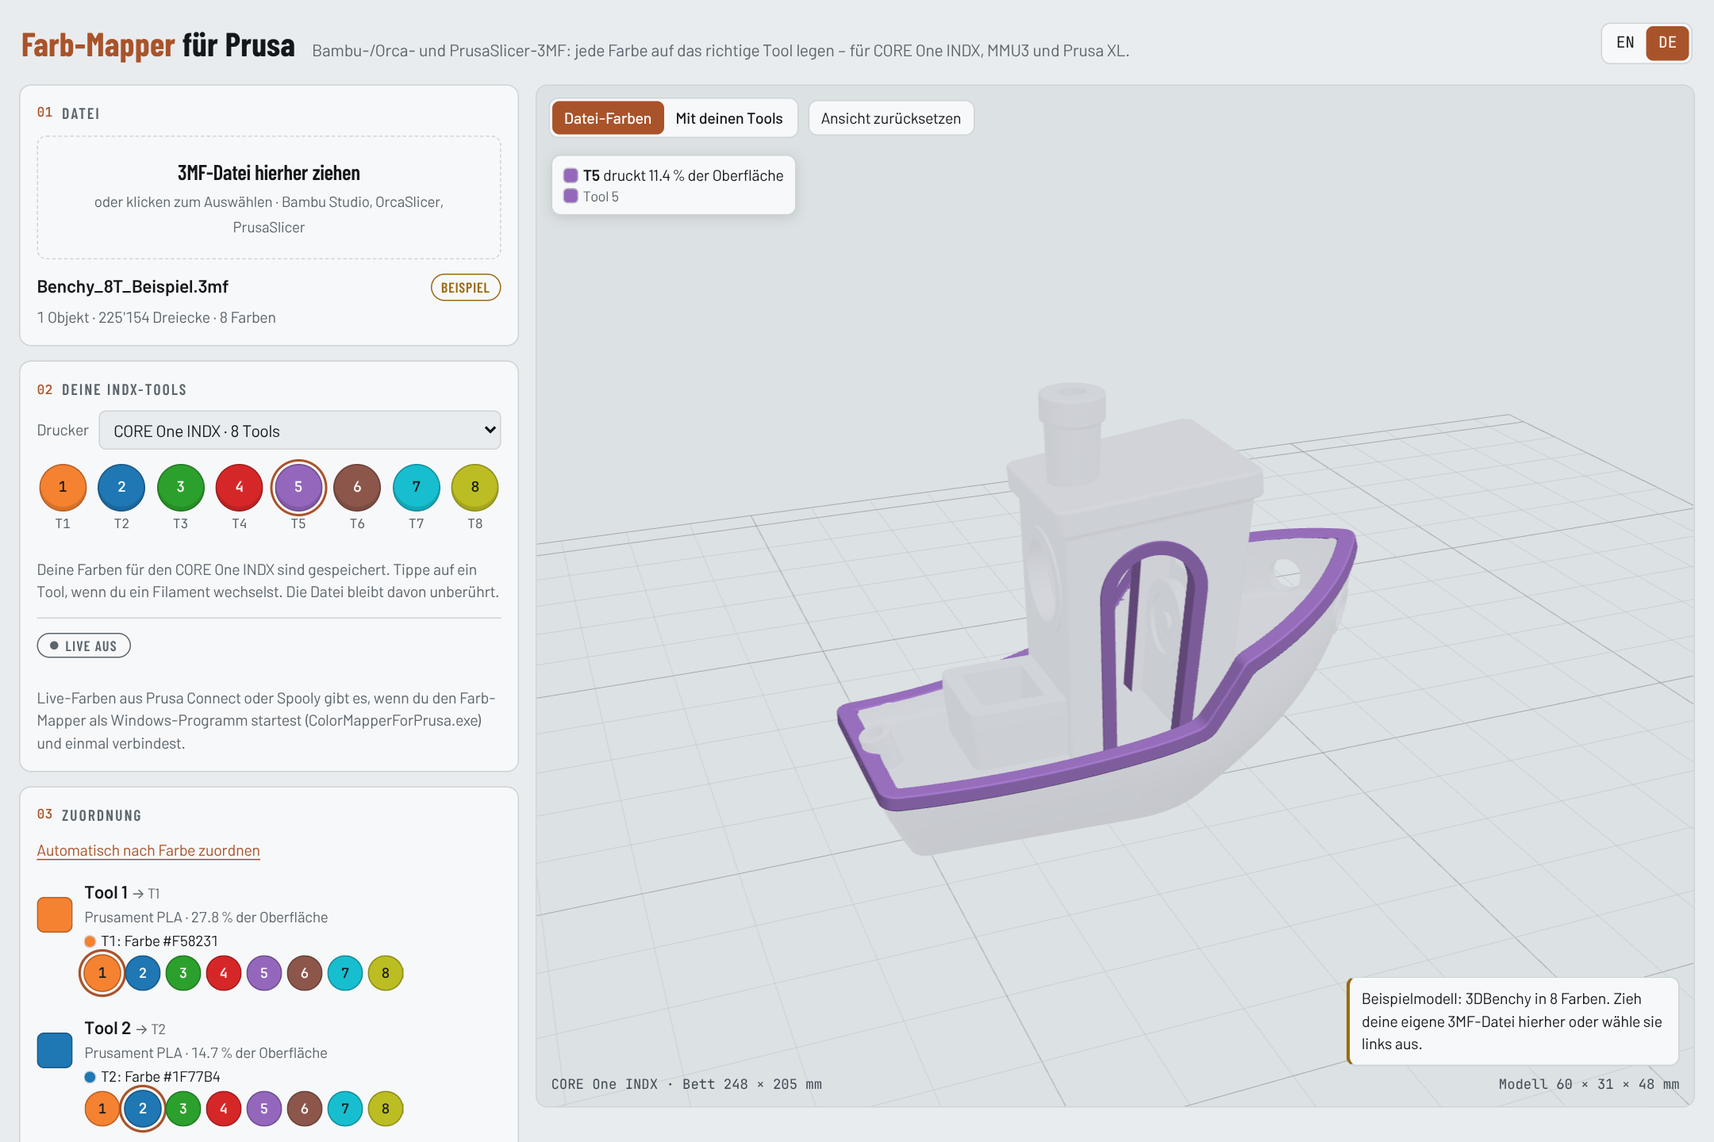
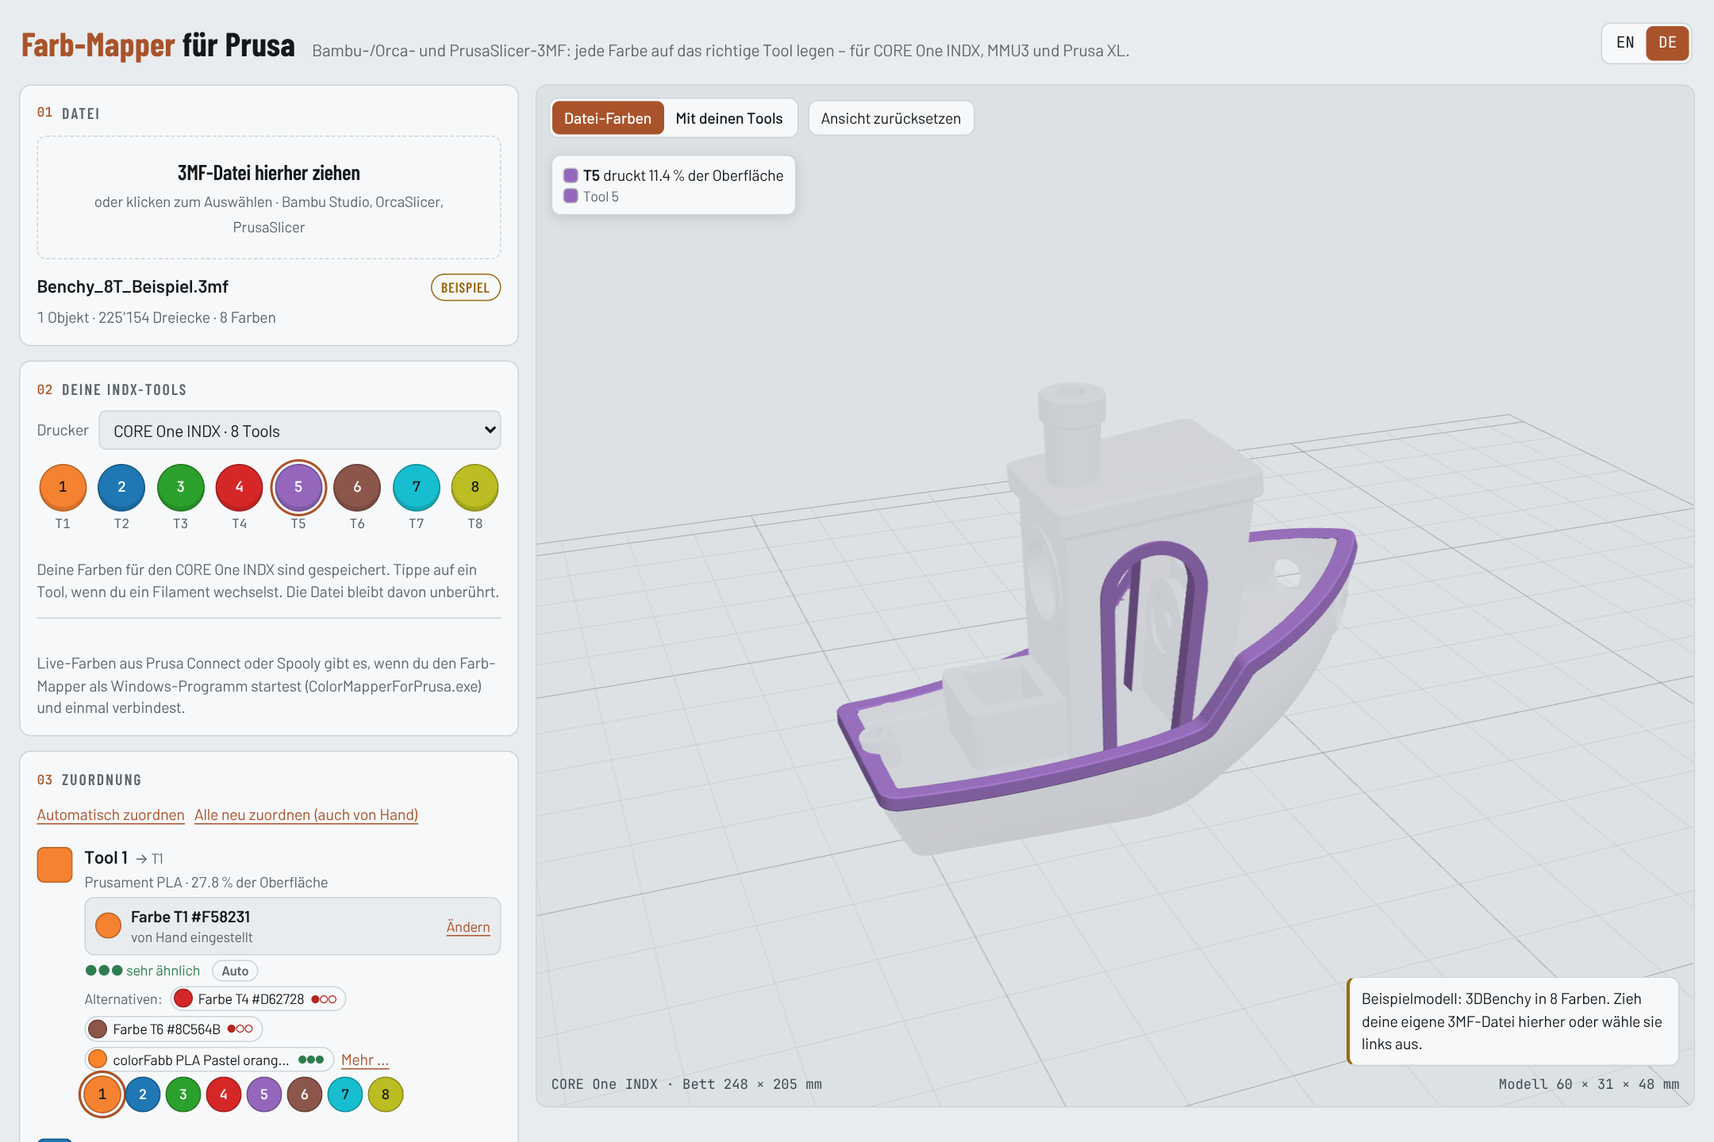
v1.4.0: documentation, screenshots and version
Claude-Session: https://claude.ai/code/session_01XiUPJFWm3fwv1rHjD5Hjyr

Changed region(s): [[0.0, 0.5625, 0.2792, 1.0]]

diff --git a/desktop/main.go b/desktop/main.go
@@ -27,7 +27,7 @@ import (
 	"time"
 )
 
-var version = "1.3.0" // beim Release-Build per -ldflags "-X main.version=…" gesetzt
+var version = "1.4.0" // beim Release-Build per -ldflags "-X main.version=…" gesetzt
 
 //go:embed web/color-mapper.html
 var pageHTML []byte

diff --git a/README.md b/README.md
@@ -11,7 +11,7 @@ You found a painted model for Bambu Studio, OrcaSlicer or PrusaSlicer, but its c
 
 <picture>
   <source media="(prefers-color-scheme: dark)" srcset="docs/screenshot-dark.png">
-  <img alt="Color Mapper for Prusa with the 8-color 3DBenchy sample – hovering tool T5 shows only the areas it prints" src="docs/screenshot.png">
+  <img alt="Color Mapper for Prusa with the 8-color 3DBenchy sample – one row per file color with its filament and tool; hovering tool T5 shows only the areas it prints" src="docs/screenshot.png">
 </picture>
 
 ## Features
@@ -19,28 +19,25 @@ You found a painted model for Bambu Studio, OrcaSlicer or PrusaSlicer, but its c
 **Everywhere (web version and Windows program)**
 
 - Opens 3MF projects from **Bambu Studio, OrcaSlicer and PrusaSlicer** (painted models and per-object colors)
-- 3D preview with the file colors or with your loaded filaments; hover a color or a tool to see exactly which areas it prints
-- **One row per file color: file color → filament → tool.** Automatic mapping by perceived color difference (CIEDE2000) and color family – a dark green goes to a green, not to black; a brown to brown, not to red
-- Each row shows how close the match is (very similar / similar / far off), whether it was set automatically or by hand, and 2–3 alternatives
-- Change a row by hand – tool or filament – and **only that row changes**; “Map automatically” keeps your manual rows, “Remap all” starts over
-- Choose a filament from what is loaded, from your Spooly stock, from the **OpenPrintTag** catalog or as your own color (color picker or hex code)
+- 3D preview with the file colors or with your filaments; hover a color or a tool to see exactly which areas it prints
+- **One row per file color: file color → filament → tool.** Each row shows the chosen filament (color, name, brand, source), how close it is (very similar / similar / far off) and whether it was set automatically or by hand
+- **Automatic mapping by perceived color difference** (CIEDE2000) and color family – a dark green goes to a green, not to black; a brown to brown, not to red
+- **Change one row, only that row changes.** “Map automatically” keeps the rows you set by hand, “Remap all” starts over
+- 2–3 **alternatives** per row, and a picker with everything you can choose from: loaded filaments, your Spooly stock, the **[OpenPrintTag](https://openprinttag.org)** catalog or your own color (color picker or hex code). Search by words in any order – `esun white` finds “eSun ePLA Cold White”
 - More colors than tools: similar colors share a tool, and the row says so
+- **Load list:** which spool goes into which tool before printing – on the page, to copy, or saved as a text file next to the 3MF
 - Your tool colors are remembered per printer in your browser
 - English and German, switchable at the top right
-- Everything runs locally: your 3MF files are never uploaded anywhere (only the public OpenPrintTag color list is downloaded, once a day at most)
+- Everything runs locally: your 3MF files are never uploaded anywhere (only the public OpenPrintTag color list is downloaded, at most once a day)
 
 **Windows program (optional)**
 
-- **Live tool colors from Prusa Connect** (unofficial) – the filament loaded in each tool or MMU slot, updated every 30 seconds
-- **Or live from [Spooly](https://spooly.eu)** (official API), with even more:
-  - remaining weight per tool and a warning when a spool is running low
-  - for every color of your file, **the best matching spool from your whole stock** – loaded or not – planned onto a tool
-  - choose a spool for any tool yourself from your stock, with storage location
-  - optional: enter the planned spools in Spooly with one click
-- Prusa Connect says what is loaded; Spooly fills in spool number, remaining weight and storage location (and the color when Connect knows only the material). Without Connect, Spooly provides the loaded spools; without both, you set the colors by hand. If Spooly is out of date for a tool, the program says so
-- Empty tools are shown as empty; a list under **Mapping** says which spool to load into which tool
+- **Live from Prusa Connect** (unofficial): what is loaded in each tool or MMU slot
+- **Live from [Spooly](https://spooly.eu)** (official API): spool number, remaining weight, storage location – and your whole stock for suggestions
+- Use **both at once**: Prusa Connect says what is loaded, Spooly adds the details. Without Connect, Spooly provides the loaded spools. If Spooly is out of date for a tool, the program says so
+- Optional: enter the spools to load in Spooly with one click
 - **Details** lists printer, update time and every tool with spool, material, remaining weight and storage location
-- A note when a print would mix materials (for example PLA and ASA)
+- Warnings for spools that are running low and for prints that mix materials (for example PLA and ASA)
 
 ## Supported printers
 
@@ -54,14 +51,15 @@ Tested on a real CORE One INDX. The other printers use the same file format and 
 
 ## Web version or Windows program?
 
-Both are the same Color Mapper. The Windows program adds the live tool colors from Prusa Connect or Spooly.
+Both are the same Color Mapper. The Windows program adds the live data from Prusa Connect and Spooly.
 
 | | Web version | Windows program |
 |---|---|---|
 | Installation | none | download `ColorMapperForPrusa.exe` and start it |
 | Works on | any computer or tablet with a current browser (Windows, macOS, Linux) | Windows |
-| Open, map and save 3MF | yes | yes |
-| Tool colors | set by hand once per printer, remembered by your browser | automatically from Prusa Connect or Spooly |
+| Open, map and save 3MF, load list | yes | yes |
+| OpenPrintTag catalog, own colors | yes | yes |
+| What is loaded in your printer | set by hand once per printer, remembered by your browser | automatically from Prusa Connect and/or Spooly |
 | Spools from your Spooly stock | – | yes |
 
 ## Web version
@@ -71,9 +69,9 @@ Both are the same Color Mapper. The Windows program adds the live tool colors fr
 
 1. Choose your printer under **Printer**.
 2. Set the color of each tool or slot: tap it and pick the color of the filament that is loaded. You do this once; the browser remembers it.
-3. Drag your 3MF file onto the page.
-4. Check the mapping – every file color gets a tool. **Map automatically by color** does it for you; hover a row to see where the color is used.
-5. Click **Save for PrusaSlicer**.
+3. Drag your 3MF file onto the page. Every file color gets a filament and a tool automatically.
+4. Check the rows under **Mapping** (see [The mapping](#the-mapping)) and change what you want.
+5. Click **Save for PrusaSlicer**. With **Also save the load list as a text file** ticked (default), you also get `…_load-list.txt`.
 
 ### Opening the result in PrusaSlicer
 
@@ -82,29 +80,72 @@ Both are the same Color Mapper. The Windows program adds the live tool colors fr
 3. If PrusaSlicer asks whether to open the file as a project or import the geometry only, choose **Import geometry only** so your printer profile stays.
 4. Check the painting with the **Multimaterial painting** tool (key N) before printing.
 
+## The mapping
+
+Every color of your file gets one row:
+
+- **File color** on the left, with its share of the surface.
+- **Filament** – the button shows color, name, brand, remaining weight and where it comes from (*loaded*, *Spooly stock*, *OpenPrintTag*, *own color*). Click it to choose another one.
+- **Tool** – the round buttons below. Click one to print this color with another tool.
+- **Quality:** ●●● very similar, ●●○ similar, ●○○ far off – based on the perceived color difference.
+- **Auto** or **✎ manual**, and **back to auto** for a single row.
+- **Notes**, for example *load into T6*, *shares T4 with Tool 7*, *PETG instead of PLA*.
+- **Alternatives:** the next best filaments – loaded, from your stock, and one from the OpenPrintTag catalog.
+
+**How the automatic mapping decides**
+
+- Color first: the perceived difference (CIEDE2000, lightness counts half) plus a penalty for a different color family, so brown stays brown and grey doesn't land on a colored tool.
+- Material: filaments in the file's material (PLA for PLA) are preferred, as long as one of them is at least *similar*.
+- A loaded spool wins over one from your stock if it matches practically as well – you don't swap spools for nothing. Almost empty spools come last.
+- Spools from your stock go first into a tool with practically the same color (for example black PLA into the tool with black ASA), then into empty slots, then into the tool the print doesn't need whose current color is most similar. Tools the print needs are never replaced.
+- More colors than tools: the color shares the most similar tool, and the row says so.
+- The OpenPrintTag catalog is only shown as an alternative – it is never chosen automatically, because those spools are not in your printer or stock.
+
+**Changing things by hand**
+
+- Click a tool or choose a filament: **only this row changes**. If the filament is not in the printer yet, it goes to a free tool (same color, then empty, then most similar).
+- **Map automatically** maps all automatic rows again and keeps your manual rows. **Remap all (incl. manual)** starts over.
+- The picker has four tabs: **Loaded**, **Spooly stock** (Windows program with Spooly), **OpenPrintTag** and **Own color** (color picker or hex code `#RRGGBB`). The search matches words in any order and ignores case, accents and hyphens – `creality blue` finds “Creality PLA Blue”, `#82` finds spool number 82. **only PLA** limits the list to the file's material.
+
+**Load list**
+
+Below the rows, **Load before printing** lists every tool that needs a different spool, with storage location and what is in it now. **Save as text file** and **Copy** take the whole list with you; when you save for PrusaSlicer, the list is saved too (`…_load-list.txt`, can be switched off under **Save**). The text file also lists what stays loaded, unused tools and notes. Your browser may ask once whether the page may download several files – allow it.
+
 ## Windows program
 
 1. Download `ColorMapperForPrusa.exe` from the [latest release](../../releases/latest) and start it. A black window opens and the Color Mapper opens in your browser.
-2. Choose the source of the tool colors at the top of the live box: **Prusa Connect** or **Spooly** (see below).
+2. Connect **Prusa Connect**, **Spooly** or both in the box below the tools (see below).
 3. Keep the black window open while you use the Color Mapper. Closing it stops the program.
 
 **“Windows protected your PC”:** the program is not code-signed, so Windows SmartScreen warns about it on first start. Click **More info → Run anyway**. If your browser or company blocks downloading `.exe` files, you can't use the Windows program on that computer – the web version works without it.
 
 *Optional – check the download:* the files in the releases are built by GitHub directly from this source code. Compare the SHA-256 (`Get-FileHash ColorMapperForPrusa.exe` in PowerShell) with `SHA256SUMS.txt` from the release, or, with the [GitHub CLI](https://cli.github.com/), run `gh attestation verify ColorMapperForPrusa.exe --repo DomiTech3D/color-mapper-for-prusa`.
 
+### Where “loaded” comes from
+
+The line **Loaded spools** below the tools shows which source is used:
+
+| Connected | What is loaded comes from |
+|---|---|
+| Prusa Connect and Spooly | Prusa Connect. Spooly adds spool number, remaining weight and storage location when its spool in that slot has the same color. If Prusa Connect knows only the material, the color comes from Spooly. If the two disagree, a note says *Spooly is not up to date for T3* – Prusa Connect counts. |
+| only Spooly (or Prusa Connect fails) | Spooly |
+| neither | the colors you set by hand |
+
+The tools show what is loaded. While a live source is used, you change the filament on the printer or in Spooly, not on the page; a ↻ marks tools whose spool should be swapped for this file.
+
 ### Live colors from Prusa Connect
 
-1. In the live box, choose **Prusa Connect** and click **Connect to Prusa Connect**.
+1. Click **Connect to Prusa Connect**.
 2. Sign in on the Prusa page that opens. The program never sees your password.
 3. If you have several printers, choose yours under **Printer**. The matching printer profile is chosen automatically.
 
-The colors update every 30 seconds. When you load a new spool, the color changes by itself. A tool without filament in Prusa Connect is shown as empty. You can still give a tool your own color by tapping it; **↺ Connect** takes the color from Prusa Connect again.
+The data updates every 30 seconds. When you load a new spool, the tool changes by itself. A tool without filament in Prusa Connect is shown as empty.
 
 ### Live colors and stock from Spooly
 
 [Spooly](https://spooly.eu) is a filament manager. Through its official API the Color Mapper reads which spool is in which slot and what you have in stock.
 
-![The Windows program with Spooly: live tool colors, a spool from stock planned for T2, and the Details panel](docs/screenshot-spooly.png)
+![The Windows program with Spooly: every file color with its spool, quality, alternatives and tool](docs/screenshot-spooly.png)
 
 **You need**
 
@@ -114,26 +155,20 @@ The colors update every 30 seconds. When you load a new spool, the color changes
 
 **Set up**
 
-1. In Spooly, create a **personal API key** (it starts with `spk_`). For live colors, reading is enough. Only the optional *entering of spools in Spooly* (see below) needs a key that may write.
-2. Start `ColorMapperForPrusa.exe` and switch the live box from **Prusa Connect** to **Spooly**.
-3. Paste the key and click **Connect to Spooly**. The key is checked right away.
+1. In Spooly, create a **personal API key** (it starts with `spk_`). Reading is enough. Only the optional *entering of spools in Spooly* (see below) needs a key that may write.
+2. Start `ColorMapperForPrusa.exe`, paste the key under **Spooly** and click **Connect to Spooly**. The key is checked right away.
+3. If Spooly has several printers, choose yours under **Printer** in the Spooly box. With Prusa Connect connected, the printer with the same name is chosen automatically.
 4. Check under **Details** that every tool shows the right spool.
 
 **How it works**
 
-- **Tool colors:** come from the spools in your Spooly slots, updated about every minute. The printer profile is chosen from the printer model (for example `COREONE_INDX8T`). Under each tool you see material and remaining weight; spools that are running low are marked.
-- **Best spool for your file:** when you open a file, every file color gets the spool from Spooly that matches it best – loaded or in stock:
-  - A loaded spool wins if it matches practically as well, so you don't swap spools for nothing.
-  - Only spools of the file's material are used (PLA for PLA), unless none of them fits.
-  - Spools from your stock go first into a tool that has practically the same color (for example black PLA into the tool with black ASA), then into empty slots, then into a tool the print doesn't need whose current color is most similar – no black into a tool that printed white. Tools the print needs are never replaced.
-  - Spools that are almost empty come last.
-  - A message says what was planned and which spool it would replace. **Discard** undoes a plan, **Map automatically by color** plans again. Nothing happens for the sample model shown at start.
-- **Choose a spool yourself:** the spool button (◎) under each tool opens your stock – searchable, with remaining weight, storage location and where a spool is loaded right now. Spools that match your file are on top.
-- **Plans are only plans:** Spooly is not changed. Planned spools are listed below the tools with their storage location, so you know what to load where. As soon as Spooly reports the planned spool in that slot, the plan is done.
+- **Loaded spools:** come from your Spooly slots (or from Prusa Connect, see above), updated about every minute. The printer profile is chosen from the printer model (for example `COREONE_INDX8T`). Under each tool you see material and remaining weight; spools that are running low are marked.
+- **Your stock:** with **Use Spooly stock for suggestions** ticked (default), the automatic mapping also picks spools that are not loaded, by the rules in [The mapping](#the-mapping). Without it, only loaded spools are used; the stock stays available in the picker.
+- **Nothing changes in Spooly by itself.** Spools from your stock appear in the load list with their storage location; once Spooly (or Prusa Connect) reports them in the tool, they count as loaded.
 
 **Optional: enter spools in Spooly**
 
-Tick **Allow entering spools in Spooly** (off by default). Then each planned spool gets an **Enter in Spooly** button, and the spool window can empty a slot in Spooly. Nothing is changed in Spooly without one of these clicks.
+Tick **Allow entering spools in Spooly** (off by default). Then each spool in the load list gets an **Enter in Spooly** button. Nothing is changed in Spooly without this click.
 
 - This needs the **slot autopilot** in Spooly and a key that may write.
 - If the printer reports a different color for the slot, the Color Mapper asks first (**Assign anyway**).
@@ -156,14 +191,20 @@ Tick **Allow entering spools in Spooly** (off by default). Then each planned spo
 | Spooly's daily limit is used up | Colors update again the next day. |
 | Spooly lists T2 but without a slot ID | Turn on the slot autopilot for this printer in Spooly. |
 | Spooly does not allow this key to change slots | Create a key with write access, or leave entering off. |
+| Spooly is not up to date for T3 | Prusa Connect reports a different spool in that tool. Update the slot in Spooly – or ignore it, Prusa Connect counts. |
 
-The **Program log** at the bottom of the live box shows which slots Spooly offers for each printer.
+The **Program log** at the bottom of the box shows which slots Spooly offers for each printer.
+
+### OpenPrintTag catalog
+
+[OpenPrintTag](https://openprinttag.org) is an open database of filaments with their colors. The Color Mapper uses it to show spools you could buy or use that match a file color – as alternatives and in the **OpenPrintTag** tab of the picker. The list is loaded live (the Windows program fetches it itself and keeps a copy for 6 hours; the web version loads it from database.openprinttag.org and keeps a copy for a day). Without internet, the last copy is used. The data is published under the MIT license.
 
 ### What the Windows program does and stores
 
 - It listens only on `127.0.0.1:8765` (your own computer) and refuses requests from other sites.
 - Prusa Connect: you sign in on Prusa's own page; the sign-in is stored encrypted (Windows DPAPI) in `%APPDATA%\ColorMapperForPrusa`. It only reads your printers and the filament in each tool.
-- Spooly: the API key is stored the same way. The program reads printers, slots and spools; it only writes to Spooly when you click **Enter in Spooly** or empty a slot.
+- Spooly: the API key is stored the same way. The program reads printers, slots and spools; it only writes to Spooly when you click **Enter in Spooly**.
+- OpenPrintTag: the public filament list is downloaded and cached in the same folder (`openprinttag.json`).
 - **Disconnect** deletes the stored sign-in or key. Tokens and keys are never written to the log.
 
 ## About the Prusa Connect connection (unofficial)
@@ -190,6 +231,15 @@ No. A 3MF file contains no filament usage; only the slicer calculates it (it dep
 **Why do some areas turn grey while hovering?**
 On purpose: only the areas printed by the color or tool under the mouse pointer stay in color.
 
+**Why does a row say “shares T4 with …”?**
+The file has more colors than you have tools (or than tools that are free). The color then prints with the most similar tool. Choose another tool or filament for that row if you prefer.
+
+**Why is a catalog filament never chosen automatically?**
+Spools from the OpenPrintTag catalog are not in your printer or your stock. They are suggestions; choose one by hand if you want to buy or load it, and load it as the load list says.
+
+**Can the load list be put into the 3MF?**
+PrusaSlicer would not show it: with *Import geometry only* it drops everything except the geometry and the painting. That's why it is a separate text file.
+
 ## Feedback
 
 This is a hobby project and my first one on GitHub – feedback is very welcome. Found a bug, a 3MF that doesn't work, or have an idea? Please [open an issue](../../issues). For problems with a specific file, a short description of the printer, the slicer it came from and what went wrong helps a lot.
@@ -201,13 +251,14 @@ Requirements: Python 3, Go 1.22 or newer, Node.js (only for the test).
 ```sh
 python3 app/build.py                      # → dist/color-mapper.html and desktop/web/color-mapper.html
 node app/test/roundtrip.js demo/benchy_8t.3mf
+node app/test/match.test.js               # color matching and tool allocation
 
 cd desktop
 go test ./...
 GOOS=windows GOARCH=amd64 go build -ldflags "-s -w" -o ColorMapperForPrusa.exe .
 ```
 
-The page source is `app/index.src.html`, the 3MF engine is `app/core.js` (no dependencies). The Windows program (`desktop/`) only uses the Go standard library.
+The page source is `app/index.src.html`, the 3MF engine is `app/core.js` and the color matching is `app/match.js` (no dependencies). The Windows program (`desktop/`) only uses the Go standard library.
 
 ## License
 
